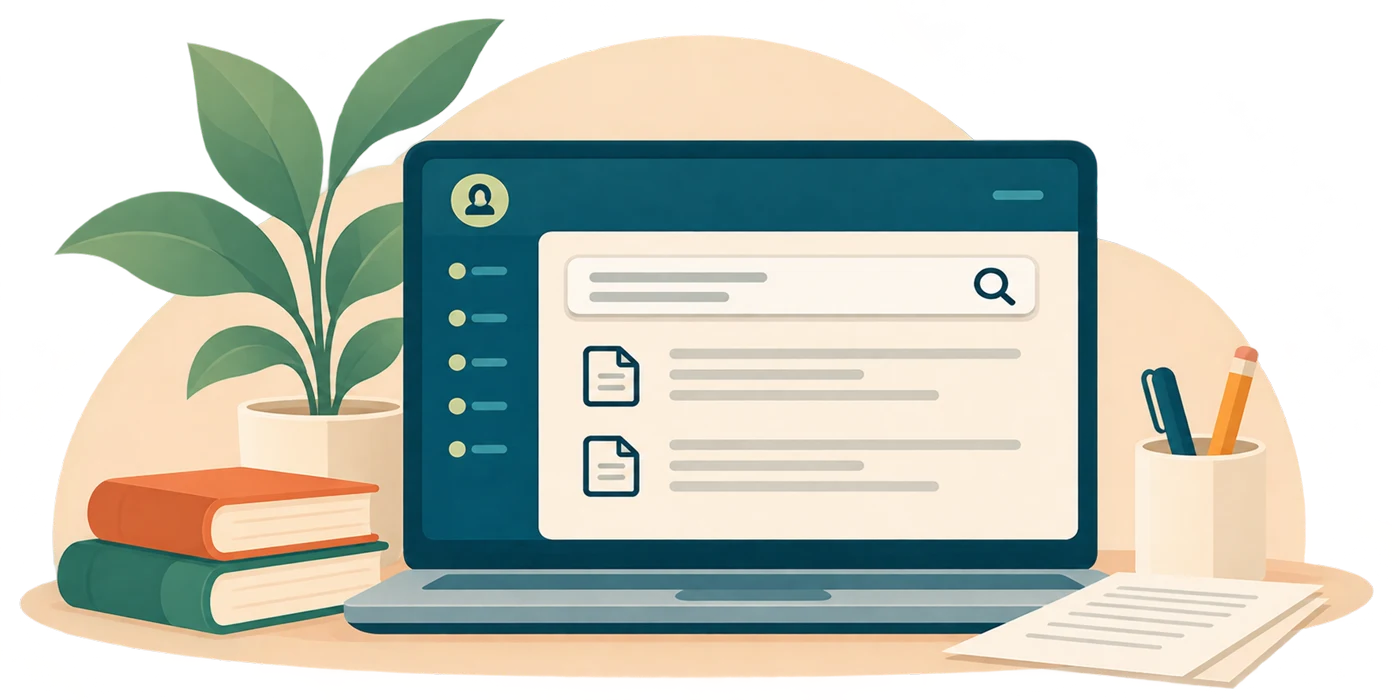
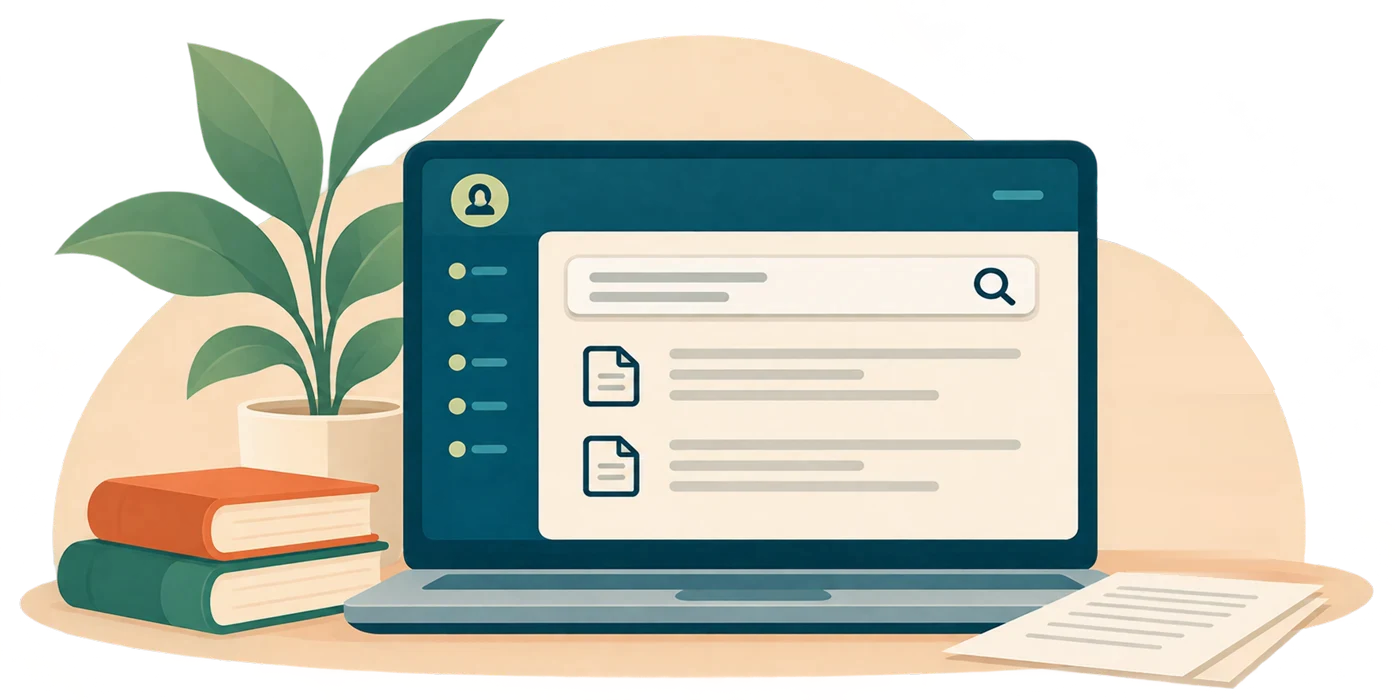
Stratasphere illustration: the pen cup painted out
It sat behind the Remember headline once the laptops grew. The peach
background, its curved edge, and the table are redrawn where the cup was.

Claude-Session: https://claude.ai/code/session_011bdXNR69iqwsd2cqbdg9LF

Changed region(s): [[0.7986, 0.48, 0.9214, 0.84]]

diff --git a/design/2026-11-editorial-refresh/README.md b/design/2026-11-editorial-refresh/README.md
@@ -50,7 +50,8 @@ CSS, not a parallel system; the app is unchanged.
 One set, made with an AI image tool whose terms allow commercial use, on
 transparent backgrounds, in `public/illustrations` at 1400px wide:
 `hero`, `training`, `meeting-mode`, `stratasphere`, `managers` (the
-council member at a laptop), `closer-look`. People are warm and smiling; no lettering, buildings as a
+council member at a laptop), `closer-look`. The Stratasphere drawing's pen
+cup was painted out (it sat behind the headline once the laptops grew). People are warm and smiling; no lettering, buildings as a
 motif, or fake app screens (the laptops show the real demos). The
 original reference image from the brief is not used anywhere.
 
